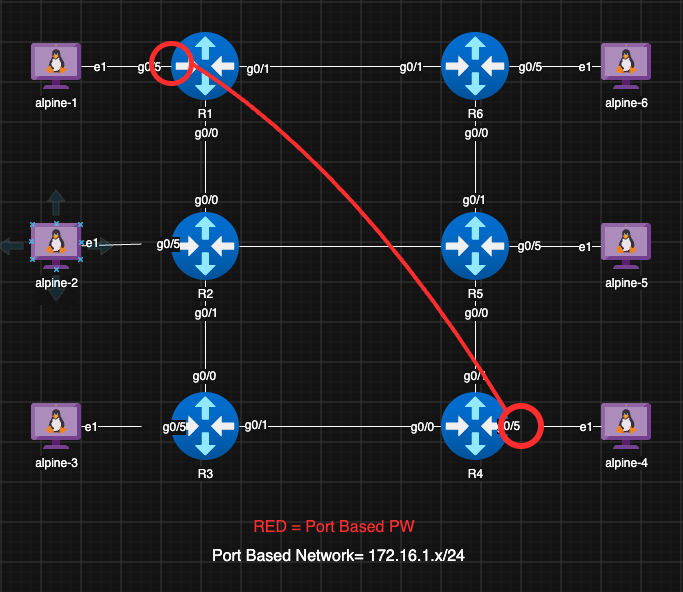
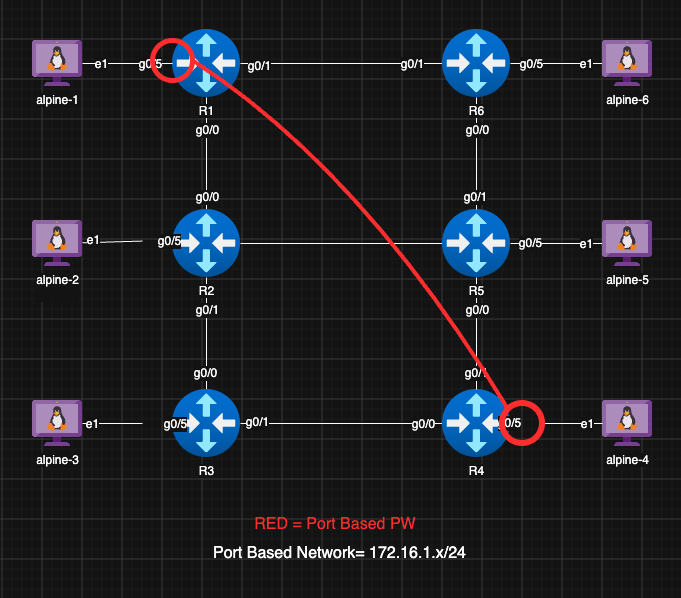
Update Task 3 Your Network picture

Changed region(s): [[0.0, 0.0304, 0.9559, 0.8209], [0.3084, 0.8514, 0.7093, 0.973]]

diff --git a/CHANGELOG.md b/CHANGELOG.md
@@ -11,6 +11,10 @@ Take a backup before and after each device change with `backups/backup-configs.s
 
 ## 2026-11-19
 
+### Task 3 "Your Network" picture updated
+- **Changed (instructor):** replaced `images/network-task3.png` with a new export of the diagram (the alpine-2 selection handles
+  are gone). `TASK3.md` already pointed at this file, so no text changed.
+
 ### Removed the "(an estimate, not yet timed with a student)" wording
 - **Changed (instructor request):** `TASK3.md` and `TASK4.md` now say just "about 30 minutes" and "about 45 minutes".
   `TASK1.md` and `TASK2.md` already had no qualifier. The times themselves are still estimates; no task has been timed with a student.
